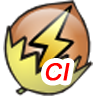
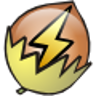
changes for master branch

Changed region(s): [[0.4062, 0.5938, 0.7812, 0.9062], [0.0312, 0.4375, 0.0625, 0.5625], [0.9375, 0.625, 0.9688, 0.6875]]

diff --git a/README.md b/README.md
@@ -1,6 +1,6 @@
-Network UPS Tools (NUT) - CI for UNRAID
+Network UPS Tools (NUT) for UNRAID
 ================
-_A fast-paced fork of the NUT plugin, offering additional features and frequent backend updates for your UPS._
+_A refactored version of the original NUT plugin with a focus on frequent updates._
 
 The NUT plugin for UNRAID has been developed by various people since 2015.
 

diff --git a/source/nut/usr/local/emhttp/plugins/nut/README.md b/source/nut/usr/local/emhttp/plugins/nut/README.md
@@ -1,3 +1,3 @@
-**Network UPS Tools (NUT) - CI**
+**Network UPS Tools (NUT) for UNRAID**
 
-A fast-paced fork of the NUT plugin, offering additional features and frequent backend updates for your UPS.
+A refactored version of the original NUT plugin with a focus on frequent updates.
